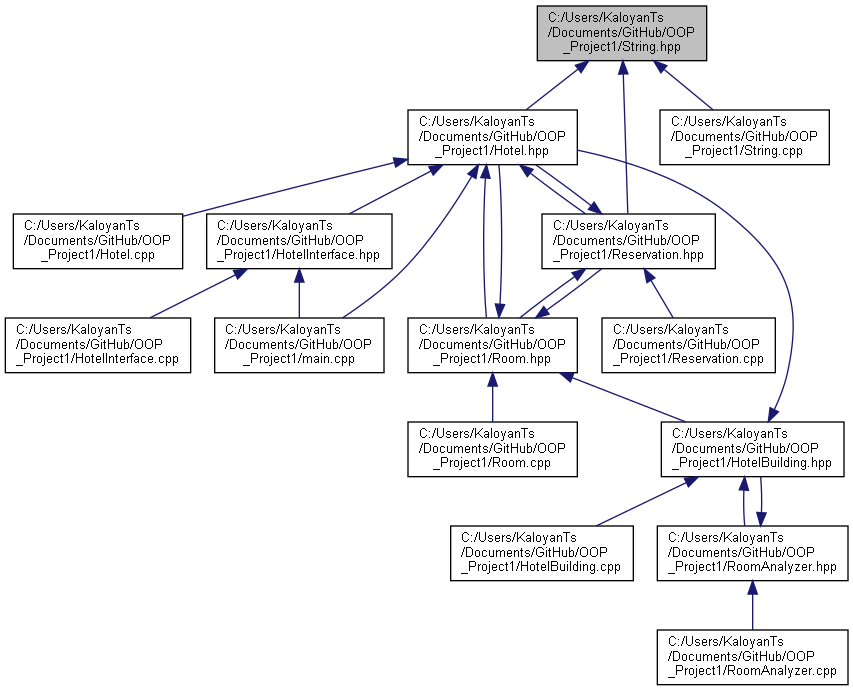
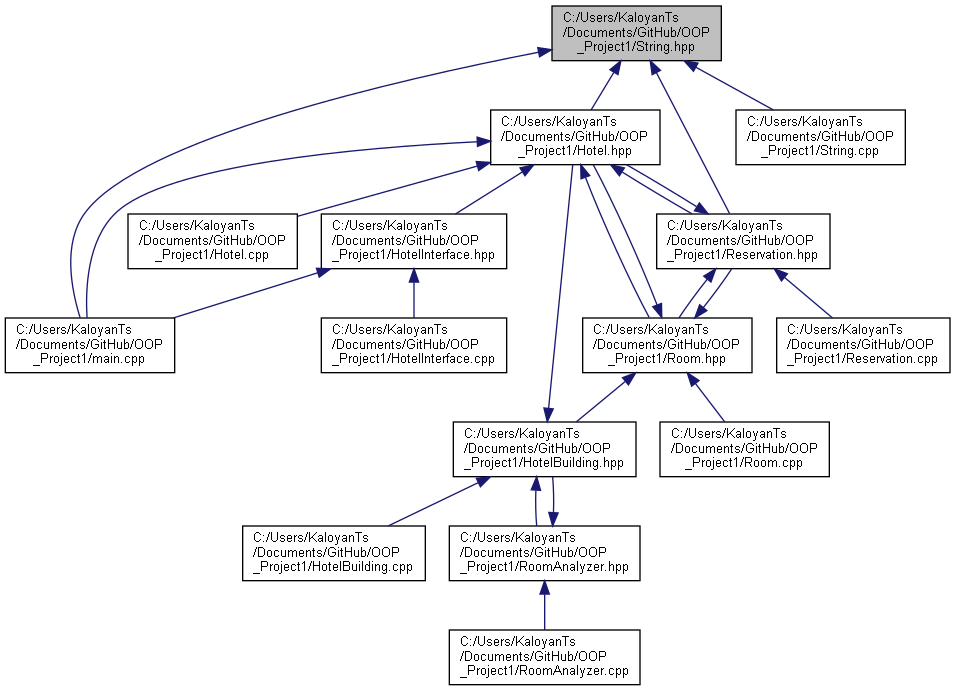
ugly comma

diff --git a/documentation/html/_hotel_building_8hpp_source.html b/documentation/html/_hotel_building_8hpp_source.html
@@ -139,18 +139,18 @@ $(document).ready(function(){initNavTree('_hotel_building_8hpp_source.html','');
 <div class="ttc" id="aclass_hotel_building_html"><div class="ttname"><a href="class_hotel_building.html">HotelBuilding</a></div><div class="ttdoc">Class representing list of rooms.</div><div class="ttdef"><b>Definition:</b> HotelBuilding.hpp:15</div></div>
 <div class="ttc" id="aclass_hotel_building_html_a0b44f6281acbeffb9bc4ff13b49c503c"><div class="ttname"><a href="class_hotel_building.html#a0b44f6281acbeffb9bc4ff13b49c503c">HotelBuilding::HotelBuilding</a></div><div class="ttdeci">HotelBuilding(std::ifstream &amp;ifs)</div><div class="ttdoc">Construct a new HotelBuilding object from a text file containing rooms info Format of the file:</div><div class="ttdef"><b>Definition:</b> HotelBuilding.cpp:3</div></div>
 <div class="ttc" id="aclass_hotel_building_html_a2d5769bf590157c81b17c29393515533"><div class="ttname"><a href="class_hotel_building.html#a2d5769bf590157c81b17c29393515533">HotelBuilding::operator[]</a></div><div class="ttdeci">Room * operator[](unsigned roomNumber) const</div><div class="ttdoc">seek for a room with particular number</div><div class="ttdef"><b>Definition:</b> HotelBuilding.cpp:22</div></div>
-<div class="ttc" id="aclass_hotel_building_html_a331590bfb72cbdfbcda776c7f49780e8"><div class="ttname"><a href="class_hotel_building.html#a331590bfb72cbdfbcda776c7f49780e8">HotelBuilding::writeToBinaryFile</a></div><div class="ttdeci">void writeToBinaryFile(std::ofstream &amp;ofs)</div><div class="ttdoc">write the HotelBuilding data into binary file opened by ofstream</div><div class="ttdef"><b>Definition:</b> HotelBuilding.cpp:82</div></div>
+<div class="ttc" id="aclass_hotel_building_html_a331590bfb72cbdfbcda776c7f49780e8"><div class="ttname"><a href="class_hotel_building.html#a331590bfb72cbdfbcda776c7f49780e8">HotelBuilding::writeToBinaryFile</a></div><div class="ttdeci">void writeToBinaryFile(std::ofstream &amp;ofs)</div><div class="ttdoc">write the HotelBuilding data into binary file opened by ofstream</div><div class="ttdef"><b>Definition:</b> HotelBuilding.cpp:85</div></div>
 <div class="ttc" id="aclass_hotel_building_html_a35d48dc36daf9aee976f7e71d731beed"><div class="ttname"><a href="class_hotel_building.html#a35d48dc36daf9aee976f7e71d731beed">HotelBuilding::operator=</a></div><div class="ttdeci">HotelBuilding &amp; operator=(HotelBuilding &amp;other)=delete</div></div>
-<div class="ttc" id="aclass_hotel_building_html_a58478b5b1c8bf84ddd2cdba250425d5c"><div class="ttname"><a href="class_hotel_building.html#a58478b5b1c8bf84ddd2cdba250425d5c">HotelBuilding::showRoomForNights</a></div><div class="ttdeci">void showRoomForNights(unsigned number, unsigned nights, Date today) const</div><div class="ttdoc">show soonest period of particular nights when particular room is free</div><div class="ttdef"><b>Definition:</b> HotelBuilding.cpp:77</div></div>
+<div class="ttc" id="aclass_hotel_building_html_a58478b5b1c8bf84ddd2cdba250425d5c"><div class="ttname"><a href="class_hotel_building.html#a58478b5b1c8bf84ddd2cdba250425d5c">HotelBuilding::showRoomForNights</a></div><div class="ttdeci">void showRoomForNights(unsigned number, unsigned nights, Date today) const</div><div class="ttdoc">show soonest period of particular nights when particular room is free</div><div class="ttdef"><b>Definition:</b> HotelBuilding.cpp:80</div></div>
 <div class="ttc" id="aclass_hotel_building_html_a590e77a77e5e1d2c93d12df5f60d128c"><div class="ttname"><a href="class_hotel_building.html#a590e77a77e5e1d2c93d12df5f60d128c">HotelBuilding::createReport</a></div><div class="ttdeci">void createReport(DatePeriod &amp;period) const</div><div class="ttdoc">Create a report for the usage of rooms for a particular period of time (ending before the today Date)...</div><div class="ttdef"><b>Definition:</b> HotelBuilding.cpp:45</div></div>
-<div class="ttc" id="aclass_hotel_building_html_a5d49615b93b269a461a5ddf921c545e5"><div class="ttname"><a href="class_hotel_building.html#a5d49615b93b269a461a5ddf921c545e5">HotelBuilding::showRoomsStatesToday</a></div><div class="ttdeci">void showRoomsStatesToday(Date today) const</div><div class="ttdoc">prints to stdout all rooms together with up to today Date info about their Availability (now,...</div><div class="ttdef"><b>Definition:</b> HotelBuilding.cpp:71</div></div>
+<div class="ttc" id="aclass_hotel_building_html_a5d49615b93b269a461a5ddf921c545e5"><div class="ttname"><a href="class_hotel_building.html#a5d49615b93b269a461a5ddf921c545e5">HotelBuilding::showRoomsStatesToday</a></div><div class="ttdeci">void showRoomsStatesToday(Date today) const</div><div class="ttdoc">prints to stdout all rooms together with up to today Date info about their Availability (now,...</div><div class="ttdef"><b>Definition:</b> HotelBuilding.cpp:74</div></div>
 <div class="ttc" id="aclass_hotel_building_html_a7e02a06c388ca30205b9ee7d832c8c5e"><div class="ttname"><a href="class_hotel_building.html#a7e02a06c388ca30205b9ee7d832c8c5e">HotelBuilding::newDate</a></div><div class="ttdeci">void newDate(Date d)</div><div class="ttdoc">update this HotelBuilding rooms data on a new Date</div><div class="ttdef"><b>Definition:</b> HotelBuilding.cpp:32</div></div>
 <div class="ttc" id="aclass_hotel_building_html_a8c09c46d278197749825c0135b03da18"><div class="ttname"><a href="class_hotel_building.html#a8c09c46d278197749825c0135b03da18">HotelBuilding::~HotelBuilding</a></div><div class="ttdeci">~HotelBuilding()</div><div class="ttdoc">Destroy the HotelBuilding object.</div><div class="ttdef"><b>Definition:</b> HotelBuilding.cpp:15</div></div>
-<div class="ttc" id="aclass_hotel_building_html_a8e5c528b9b54198c20333764275a7280"><div class="ttname"><a href="class_hotel_building.html#a8e5c528b9b54198c20333764275a7280">HotelBuilding::suggestRoom</a></div><div class="ttdeci">void suggestRoom(unsigned beds, const DatePeriod &amp;period)</div><div class="ttdoc">show top DISPLAY (or all rooms if less than DISPLAY + 1) sorted by suitabilty for the guest,...</div><div class="ttdef"><b>Definition:</b> HotelBuilding.cpp:66</div></div>
+<div class="ttc" id="aclass_hotel_building_html_a8e5c528b9b54198c20333764275a7280"><div class="ttname"><a href="class_hotel_building.html#a8e5c528b9b54198c20333764275a7280">HotelBuilding::suggestRoom</a></div><div class="ttdeci">void suggestRoom(unsigned beds, const DatePeriod &amp;period)</div><div class="ttdoc">show top DISPLAY (or all rooms if less than DISPLAY + 1) sorted by suitabilty for the guest,...</div><div class="ttdef"><b>Definition:</b> HotelBuilding.cpp:69</div></div>
 <div class="ttc" id="aclass_hotel_building_html_a91f8a66bf8af1eaacef5a3d96a62d255"><div class="ttname"><a href="class_hotel_building.html#a91f8a66bf8af1eaacef5a3d96a62d255">HotelBuilding::HotelBuilding</a></div><div class="ttdeci">HotelBuilding(const HotelBuilding &amp;other)=delete</div></div>
 <div class="ttc" id="aclass_hotel_building_html_aac84c36001ea2dd2a085c861e39ec7b0"><div class="ttname"><a href="class_hotel_building.html#aac84c36001ea2dd2a085c861e39ec7b0">HotelBuilding::getRoomCount</a></div><div class="ttdeci">size_t getRoomCount() const</div><div class="ttdoc">Get the room count.</div><div class="ttdef"><b>Definition:</b> HotelBuilding.hpp:51</div></div>
 <div class="ttc" id="aclass_hotel_building_html_acb8b2fa415c1718a6a8bae7fddc7b06d"><div class="ttname"><a href="class_hotel_building.html#acb8b2fa415c1718a6a8bae7fddc7b06d">HotelBuilding::showAvailableRooms</a></div><div class="ttdeci">void showAvailableRooms(std::ostream &amp;os, Date d) const</div><div class="ttdoc">show available rooms on a particular Date</div><div class="ttdef"><b>Definition:</b> HotelBuilding.cpp:38</div></div>
-<div class="ttc" id="aclass_hotel_building_html_afebae062d697a16f7dc900bf3eb0d744"><div class="ttname"><a href="class_hotel_building.html#afebae062d697a16f7dc900bf3eb0d744">HotelBuilding::readDataFromBinary</a></div><div class="ttdeci">void readDataFromBinary(std::ifstream &amp;ifs)</div><div class="ttdoc">read the HotelBuilding data from binary file opened by ifstream</div><div class="ttdef"><b>Definition:</b> HotelBuilding.cpp:89</div></div>
+<div class="ttc" id="aclass_hotel_building_html_afebae062d697a16f7dc900bf3eb0d744"><div class="ttname"><a href="class_hotel_building.html#afebae062d697a16f7dc900bf3eb0d744">HotelBuilding::readDataFromBinary</a></div><div class="ttdeci">void readDataFromBinary(std::ifstream &amp;ifs)</div><div class="ttdoc">read the HotelBuilding data from binary file opened by ifstream</div><div class="ttdef"><b>Definition:</b> HotelBuilding.cpp:92</div></div>
 <div class="ttc" id="aclass_room_analyzer_html"><div class="ttname"><a href="class_room_analyzer.html">RoomAnalyzer</a></div><div class="ttdoc">Utility class to perform algorythms on the rooms in a building.</div><div class="ttdef"><b>Definition:</b> RoomAnalyzer.hpp:10</div></div>
 <div class="ttc" id="aclass_room_html"><div class="ttname"><a href="class_room.html">Room</a></div><div class="ttdoc">Class representing a room in hotel.</div><div class="ttdef"><b>Definition:</b> Room.hpp:14</div></div>
 <div class="ttc" id="astruct_date_period_html"><div class="ttname"><a href="struct_date_period.html">DatePeriod</a></div><div class="ttdoc">Class containing two dates forming a period of time from Date to Date.</div><div class="ttdef"><b>Definition:</b> Date.hpp:141</div></div>

diff --git a/documentation/html/main_8cpp.html b/documentation/html/main_8cpp.html
@@ -91,10 +91,8 @@ $(document).ready(function(){initNavTree('main_8cpp.html',''); initResizable(); 
 <div class="contents">
 <div class="textblock"><code>#include &lt;iostream&gt;</code><br />
 <code>#include &lt;iomanip&gt;</code><br />
-<code>#include &lt;cstring&gt;</code><br />
-<code>#include &lt;string&gt;</code><br />
 <code>#include &quot;<a class="el" href="_constants_8hpp_source.html">Constants.hpp</a>&quot;</code><br />
-<code>#include &quot;String&quot;</code><br />
+<code>#include &quot;<a class="el" href="_string_8hpp_source.html">String.hpp</a>&quot;</code><br />
 <code>#include &quot;<a class="el" href="_hotel_interface_8hpp_source.html">HotelInterface.hpp</a>&quot;</code><br />
 <code>#include &quot;<a class="el" href="_hotel_8hpp_source.html">Hotel.hpp</a>&quot;</code><br />
 </div><div class="textblock"><div class="dynheader">
@@ -102,26 +100,25 @@ Include dependency graph for main.cpp:</div>
 <div class="dyncontent">
 <div class="center"><img src="main_8cpp__incl.png" border="0" usemap="#a_c_1_2_users_2_kaloyan_ts_2_documents_2_git_hub_2_o_o_p___project1_2main_8cpp" alt=""/></div>
 <map name="a_c_1_2_users_2_kaloyan_ts_2_documents_2_git_hub_2_o_o_p___project1_2main_8cpp" id="a_c_1_2_users_2_kaloyan_ts_2_documents_2_git_hub_2_o_o_p___project1_2main_8cpp">
-<area shape="rect" title=" " alt="" coords="1021,5,1190,61"/>
-<area shape="rect" title=" " alt="" coords="121,557,193,584"/>
-<area shape="rect" title=" " alt="" coords="1027,184,1093,211"/>
-<area shape="rect" title=" " alt="" coords="851,333,912,360"/>
-<area shape="rect" title=" " alt="" coords="1089,259,1143,285"/>
-<area shape="rect" href="_constants_8hpp.html" title=" " alt="" coords="769,557,876,584"/>
-<area shape="rect" title=" " alt="" coords="1269,109,1325,136"/>
-<area shape="rect" href="_hotel_interface_8hpp.html" title=" " alt="" coords="915,109,1042,136"/>
-<area shape="rect" href="_hotel_8hpp.html" title=" " alt="" coords="601,184,679,211"/>
-<area shape="rect" title=" " alt="" coords="791,632,855,659"/>
-<area shape="rect" href="_types_8hpp.html" title=" " alt="" coords="756,483,839,509"/>
-<area shape="rect" href="_string_8hpp.html" title=" " alt="" coords="195,483,277,509"/>
-<area shape="rect" href="_date_8hpp.html" title=" " alt="" coords="441,483,516,509"/>
-<area shape="rect" href="_room_8hpp.html" title=" " alt="" coords="514,333,595,360"/>
-<area shape="rect" href="_reservation_8hpp.html" title=" " alt="" coords="336,408,451,435"/>
-<area shape="rect" href="_hotel_building_8hpp.html" title=" " alt="" coords="635,259,757,285"/>
-<area shape="rect" title=" " alt="" coords="409,557,474,584"/>
-<area shape="rect" title=" " alt="" coords="498,557,553,584"/>
-<area shape="rect" title=" " alt="" coords="301,483,366,509"/>
-<area shape="rect" href="_room_analyzer_8hpp.html" title=" " alt="" coords="627,408,759,435"/>
+<area shape="rect" title=" " alt="" coords="389,5,558,61"/>
+<area shape="rect" title=" " alt="" coords="127,557,199,584"/>
+<area shape="rect" title=" " alt="" coords="910,184,976,211"/>
+<area shape="rect" href="_constants_8hpp.html" title=" " alt="" coords="780,557,887,584"/>
+<area shape="rect" href="_string_8hpp.html" title=" " alt="" coords="44,483,125,509"/>
+<area shape="rect" href="_hotel_interface_8hpp.html" title=" " alt="" coords="461,109,588,136"/>
+<area shape="rect" href="_hotel_8hpp.html" title=" " alt="" coords="384,184,462,211"/>
+<area shape="rect" title=" " alt="" coords="802,632,866,659"/>
+<area shape="rect" href="_types_8hpp.html" title=" " alt="" coords="566,483,648,509"/>
+<area shape="rect" href="_date_8hpp.html" title=" " alt="" coords="275,483,350,509"/>
+<area shape="rect" href="_room_8hpp.html" title=" " alt="" coords="382,333,464,360"/>
+<area shape="rect" href="_reservation_8hpp.html" title=" " alt="" coords="299,408,414,435"/>
+<area shape="rect" href="_hotel_building_8hpp.html" title=" " alt="" coords="632,259,755,285"/>
+<area shape="rect" title=" " alt="" coords="540,259,594,285"/>
+<area shape="rect" title=" " alt="" coords="445,557,510,584"/>
+<area shape="rect" title=" " alt="" coords="285,557,340,584"/>
+<area shape="rect" title=" " alt="" coords="374,483,440,509"/>
+<area shape="rect" href="_room_analyzer_8hpp.html" title=" " alt="" coords="641,408,773,435"/>
+<area shape="rect" title=" " alt="" coords="539,333,600,360"/>
 </map>
 </div>
 </div><table class="memberdecls">

diff --git a/documentation/html/_string_8hpp.html b/documentation/html/_string_8hpp.html
@@ -105,21 +105,21 @@ This graph shows which files directly or indirectly include this file:</div>
 <div class="dyncontent">
 <div class="center"><img src="_string_8hpp__dep__incl.png" border="0" usemap="#a_c_1_2_users_2_kaloyan_ts_2_documents_2_git_hub_2_o_o_p___project1_2_string_8hppdep" alt=""/></div>
 <map name="a_c_1_2_users_2_kaloyan_ts_2_documents_2_git_hub_2_o_o_p___project1_2_string_8hppdep" id="a_c_1_2_users_2_kaloyan_ts_2_documents_2_git_hub_2_o_o_p___project1_2_string_8hppdep">
-<area shape="rect" title=" " alt="" coords="537,5,707,61"/>
-<area shape="rect" href="_hotel_8hpp.html" title=" " alt="" coords="408,109,577,165"/>
-<area shape="rect" href="_reservation_8hpp.html" title=" " alt="" coords="542,213,715,269"/>
-<area shape="rect" href="_string_8cpp.html" title=" " alt="" coords="660,109,829,165"/>
-<area shape="rect" href="_hotel_8cpp.html" title=" " alt="" coords="13,213,183,269"/>
-<area shape="rect" href="_hotel_interface_8hpp.html" title=" " alt="" coords="207,213,392,269"/>
-<area shape="rect" href="main_8cpp.html" title=" " alt="" coords="215,317,384,373"/>
-<area shape="rect" href="_room_8hpp.html" title=" " alt="" coords="408,317,577,373"/>
-<area shape="rect" href="_hotel_interface_8cpp.html" title=" " alt="" coords="5,317,191,373"/>
-<area shape="rect" href="_reservation_8cpp.html" title=" " alt="" coords="602,317,775,373"/>
-<area shape="rect" href="_hotel_building_8hpp.html" title=" " alt="" coords="661,421,844,477"/>
-<area shape="rect" href="_room_8cpp.html" title=" " alt="" coords="408,421,577,477"/>
-<area shape="rect" href="_hotel_building_8cpp.html" title=" " alt="" coords="451,525,633,581"/>
-<area shape="rect" href="_room_analyzer_8hpp.html" title=" " alt="" coords="657,525,848,581"/>
-<area shape="rect" href="_room_analyzer_8cpp.html" title=" " alt="" coords="657,629,848,685"/>
+<area shape="rect" title=" " alt="" coords="552,5,721,61"/>
+<area shape="rect" href="_hotel_8hpp.html" title=" " alt="" coords="491,109,660,165"/>
+<area shape="rect" href="main_8cpp.html" title=" " alt="" coords="5,317,175,373"/>
+<area shape="rect" href="_reservation_8hpp.html" title=" " alt="" coords="657,213,830,269"/>
+<area shape="rect" href="_string_8cpp.html" title=" " alt="" coords="736,109,905,165"/>
+<area shape="rect" href="_hotel_8cpp.html" title=" " alt="" coords="128,213,297,269"/>
+<area shape="rect" href="_hotel_interface_8hpp.html" title=" " alt="" coords="321,213,507,269"/>
+<area shape="rect" href="_room_8hpp.html" title=" " alt="" coords="583,317,752,373"/>
+<area shape="rect" href="_hotel_interface_8cpp.html" title=" " alt="" coords="321,317,507,373"/>
+<area shape="rect" href="_reservation_8cpp.html" title=" " alt="" coords="777,317,950,373"/>
+<area shape="rect" href="_hotel_building_8hpp.html" title=" " alt="" coords="453,421,636,477"/>
+<area shape="rect" href="_room_8cpp.html" title=" " alt="" coords="660,421,829,477"/>
+<area shape="rect" href="_hotel_building_8cpp.html" title=" " alt="" coords="243,525,425,581"/>
+<area shape="rect" href="_room_analyzer_8hpp.html" title=" " alt="" coords="449,525,640,581"/>
+<area shape="rect" href="_room_analyzer_8cpp.html" title=" " alt="" coords="449,629,640,685"/>
 </map>
 </div>
 </div>

diff --git a/documentation/html/index.html b/documentation/html/index.html
@@ -99,7 +99,7 @@ $(document).ready(function(){initNavTree('index.html',''); initResizable(); });
  <a class="el" href="md_markdowns_bibliography.html#Bibliography">Bibliography</a></p>
 <h1><a class="anchor" id="Overview"></a>
 Overview</h1>
-<p >This is information system, serving a hotel. The system allows the user to make reservations, receive up-to-date information about the rooms in the hotel, make suggestion which room is most suitable for the guest. The program runs in console mode with several instructions, being printed on startup. The data for the rooms of the hotel is written in file named "h.rooms" in same directory as the executable. Then if data has already been recorded about the hotel (recognized by its name) the data is being read from a binary file called "&lt;hotel name&gt;.dat". On closing, the data about the hotel is being written again.</p>
+<p >This is information system serving a hotel. The system allows the user to make reservations, receive up-to-date information about the rooms in the hotel, make suggestion which room is most suitable for the guest. The program runs in console mode with several instructions, being printed on startup. The data for the rooms of the hotel is written in file named "h.rooms" in same directory as the executable. Then if data has already been recorded about the hotel (recognized by its name) the data is being read from a binary file called "&lt;hotel name&gt;.dat". On closing, the data about the hotel is being written again.</p>
 <h1><a class="anchor" id="Achitecture"></a>
 Achitecture</h1>
 <p >The main class is <a class="el" href="class_hotel.html" title="Class representing hotel with name, current Date and a building (list of rooms)">Hotel</a>, having name, static date keeping track of today's date and a hotel building. The hotel building is a list of rooms, each of which has unique ID and number of beds as long as lists of reservations in future and past. The reservation is object having strings for the reserver's name, a note and period of reservation. The state of a reservation is determined through the hotel's today date.</p>

diff --git a/documentation/markdowns/mainpage.md b/documentation/markdowns/mainpage.md
@@ -5,7 +5,7 @@
 
 @section Overview
 
-This is information system, serving a hotel. The system allows the user to make reservations, receive up-to-date information about the rooms in the hotel, make suggestion which room is most suitable for the guest. The program runs in console mode with several instructions, being printed on startup. The data for the rooms of the hotel is written in file named "h.rooms" in same directory as the executable. Then if data has already been recorded about the hotel (recognized by its name) the data is being read from a binary file called \"\<hotel name\>.dat\". On closing, the data about the hotel is being written again.
+This is information system serving a hotel. The system allows the user to make reservations, receive up-to-date information about the rooms in the hotel, make suggestion which room is most suitable for the guest. The program runs in console mode with several instructions, being printed on startup. The data for the rooms of the hotel is written in file named "h.rooms" in same directory as the executable. Then if data has already been recorded about the hotel (recognized by its name) the data is being read from a binary file called \"\<hotel name\>.dat\". On closing, the data about the hotel is being written again.
 
 @section Achitecture
 
